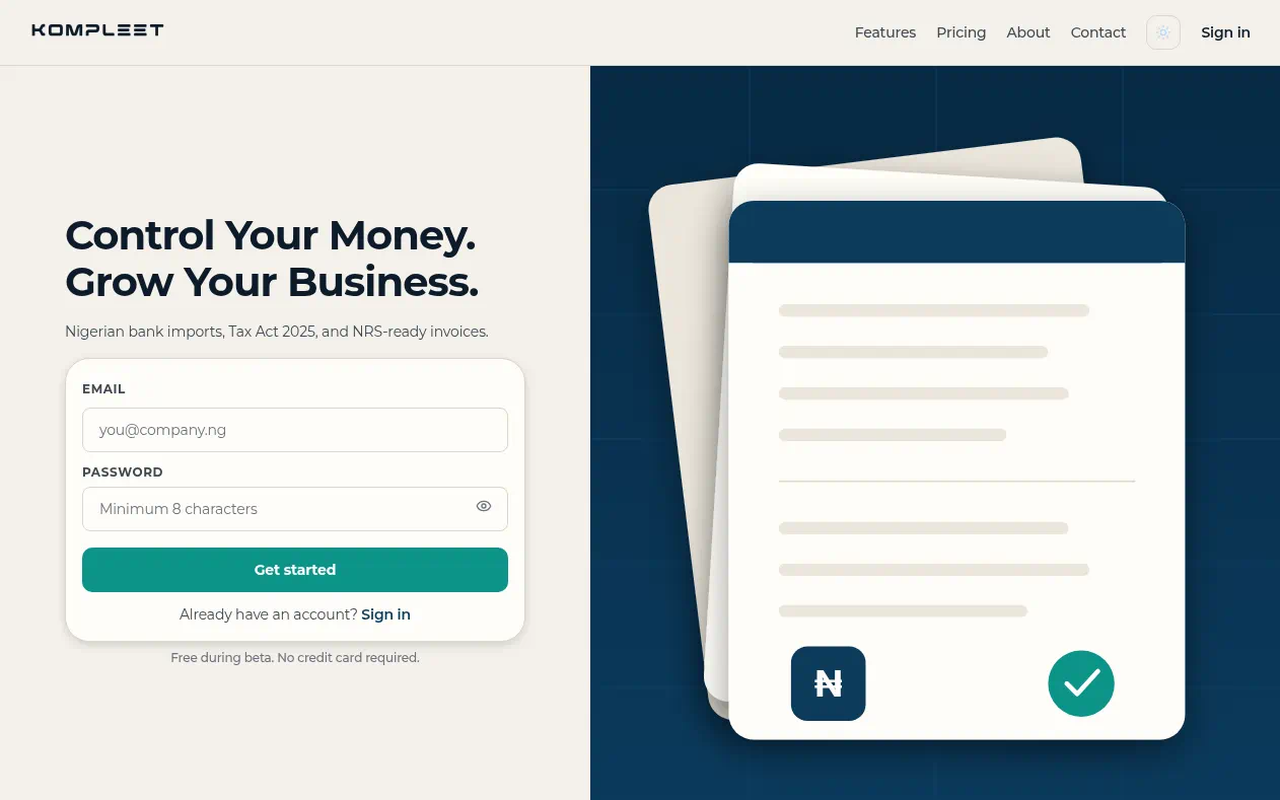
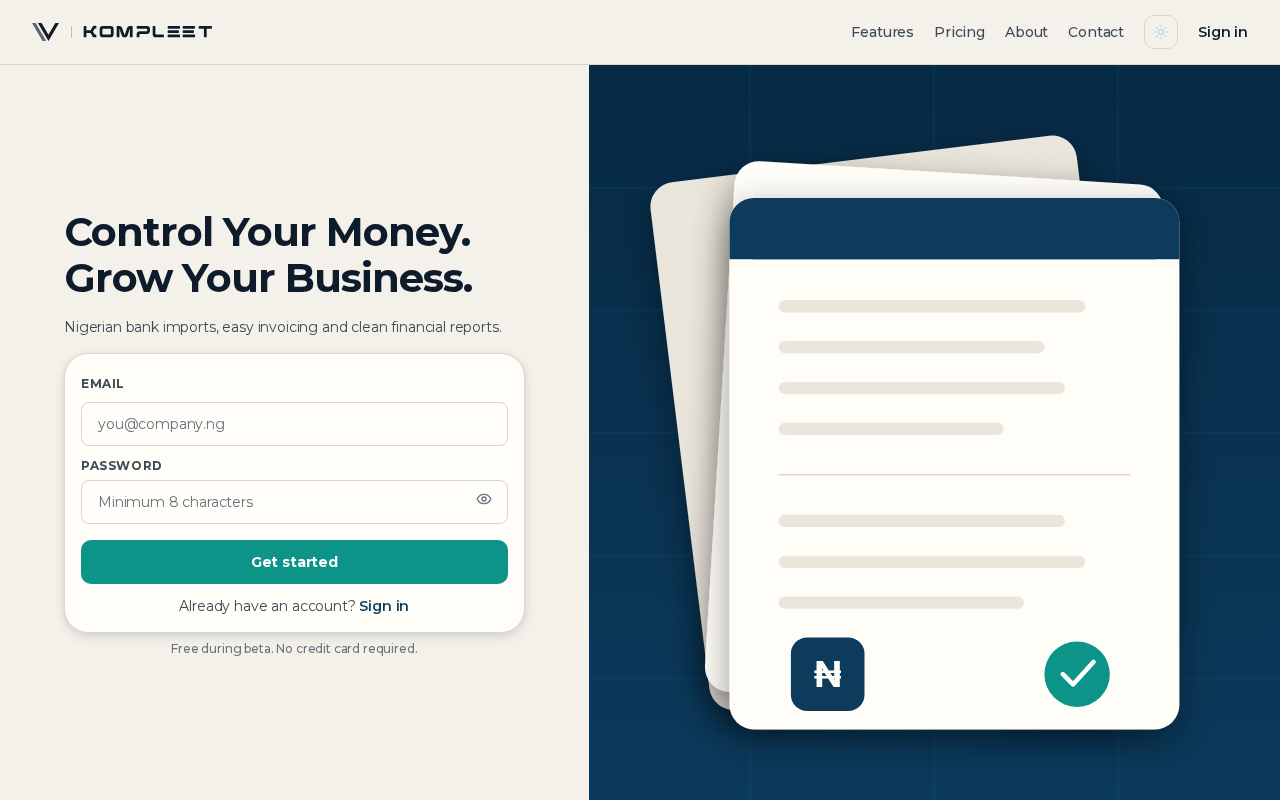
Promote IVA-191: Kompleet card copy (#55) + thumbnail (#56) to Production (#58)
* IVA-191: Kompleet card copy, drop NRS/Tax Act claim (#55)

* IVA-191: new Kompleet card thumbnail without NRS/Tax Act text (#56)

diff --git a/lib/products.ts b/lib/products.ts
@@ -29,9 +29,9 @@ export const PRODUCTS: Product[] = [
     badge: "product",
     badgeLabel: "Product · Flagship",
     description:
-      "Tax and finance software for Nigerian SMEs: bank imports, Tax Act 2025 compliance and NRS electronic invoicing.",
+      "Bookkeeping and invoicing for Nigerian SMEs: bank imports, simple invoicing and clean financial reports.",
     homeDescription:
-      "Tax and finance software for Nigerian SMEs: bank imports, Tax Act 2025 compliance and NRS electronic invoicing.",
+      "Bookkeeping and invoicing for Nigerian SMEs: bank imports, simple invoicing and clean financial reports.",
     href: "https://kompleet.techivano.com",
     cta: "Open Kompleet",
     image: "/products/kompleet-ui.png",
